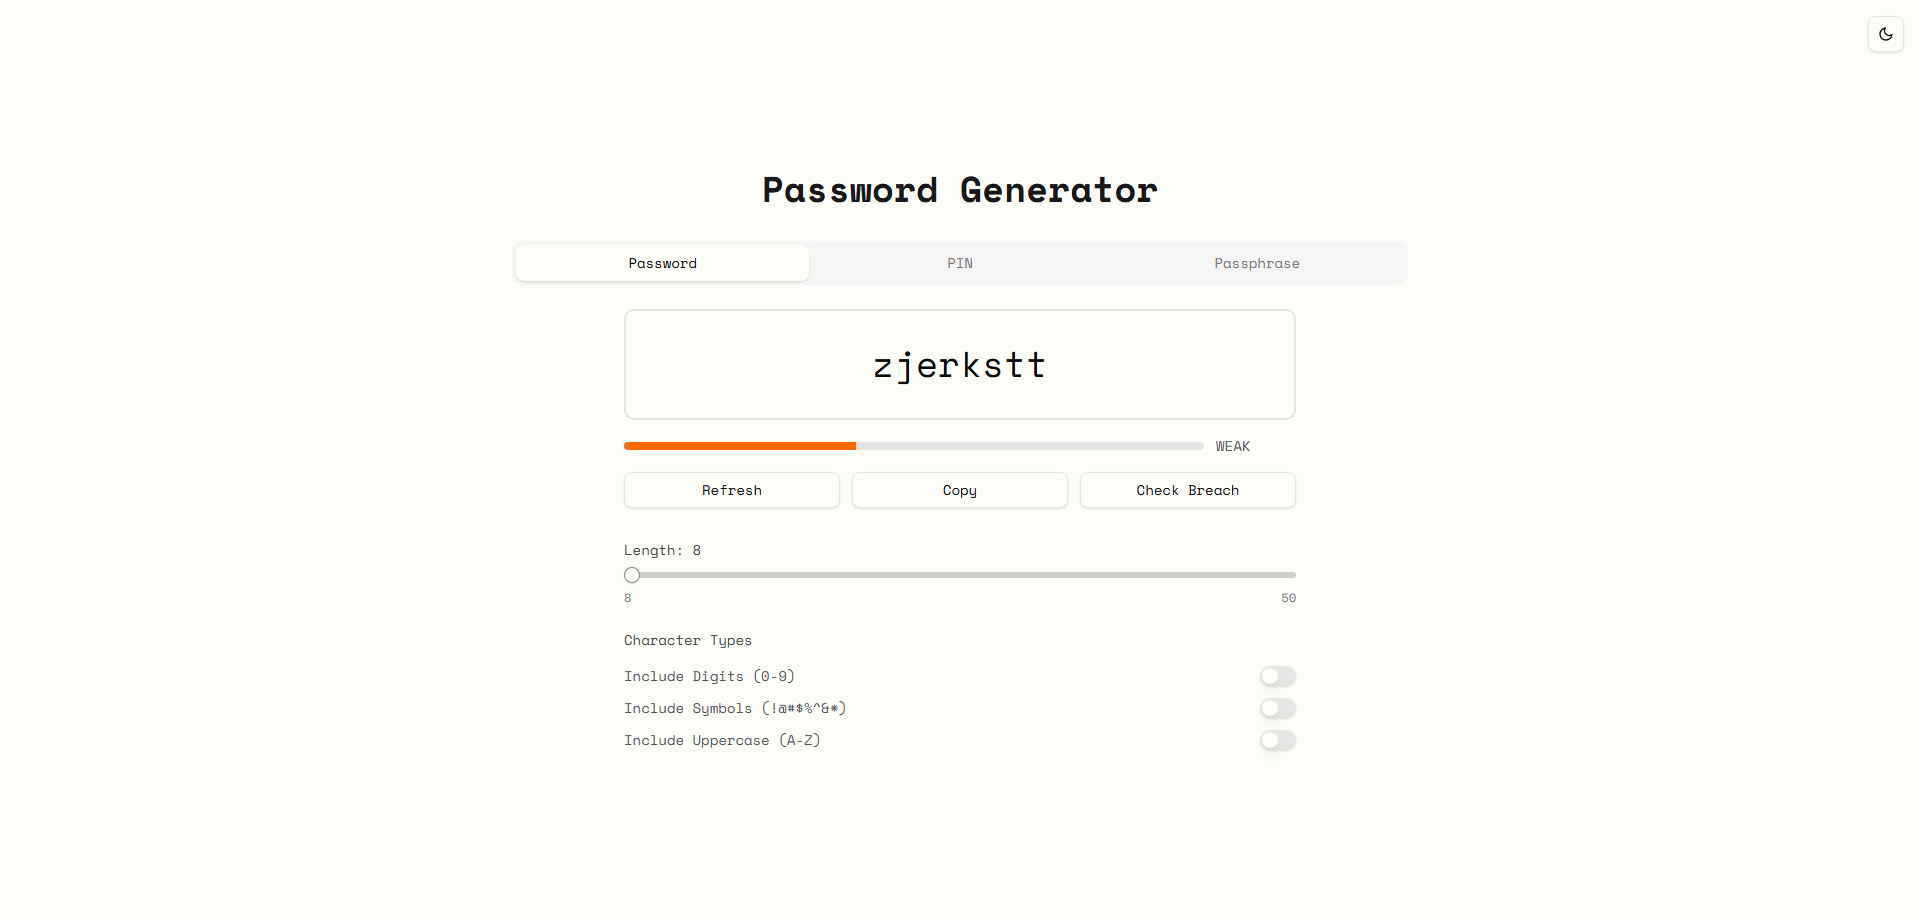
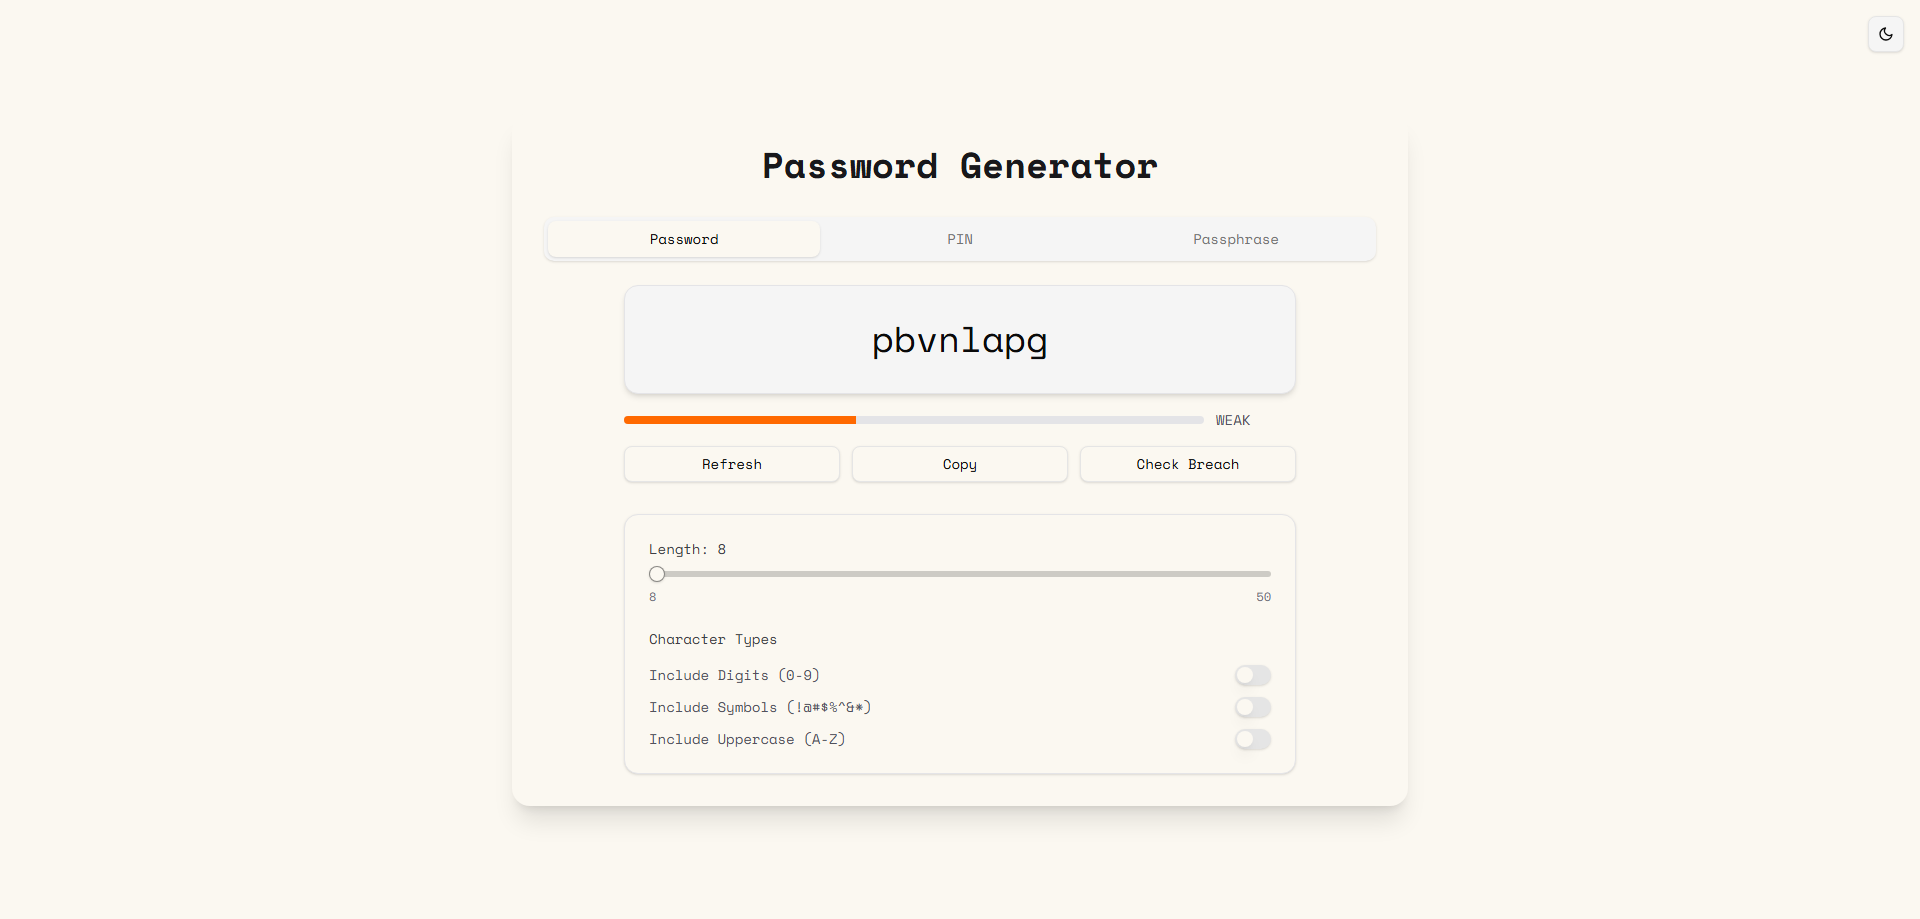
update README, update screenshots

diff --git a/README.md b/README.md
@@ -32,8 +32,9 @@ A secure, modern password generator built with Next.js 16, featuring password, P
 - **User Experience**
   - Light/dark mode toggle with persisted preference
   - Responsive design (desktop, tablet, mobile)
-  - Toast notifications for user actions
+  - Toast notifications centered at top for better visibility
   - One-click copy to clipboard
+  - Consistent muted background theme across all components
 
 ## Screenshots
 
@@ -65,7 +66,7 @@ A secure, modern password generator built with Next.js 16, featuring password, P
 | Language | [TypeScript 5](https://www.typescriptlang.org/) (strict mode) |
 | Security | [Web Crypto API](https://developer.mozilla.org/en-US/docs/Web/API/Web_Crypto_API) |
 | Testing | [Vitest 4](https://vitest.dev/), [Playwright](https://playwright.dev/) |
-| Notifications | [Sonner](https://sonner.emilkowal.ski/) |
+| Notifications | [Sonner](https://sonner.emilkowal.ski/) via [Shadcn UI](https://ui.shadcn.com/) |
 
 ## Getting Started
 
@@ -122,23 +123,25 @@ A secure, modern password generator built with Next.js 16, featuring password, P
 
 ```
 ├── app/                          # Next.js App Router
-│   ├── api/                      # API routes (breach-check)
-│   ├── components/               # React components
-│   │   ├── password-generator/   # Domain components
-│   │   └── ui/                   # Shadcn UI components
-│   ├── hooks/                    # Custom React hooks
-│   ├── lib/                      # Utility functions and core logic
-│   ├── types/                    # TypeScript definitions
-│   ├── layout.tsx                # Root layout
-│   └── page.tsx                  # Home page
+│   ├── api/                     # API routes
+│   │   └── breach-check/        # Breach check API
+│   ├── components/              # React components
+│   │   ├── password-generator/  # Domain components
+│   │   └── ui/                 # Shadcn UI components
+│   ├── hooks/                   # Custom React hooks
+│   ├── lib/                    # Utility functions and core logic
+│   ├── types/                  # TypeScript definitions
+│   ├── layout.tsx               # Root layout
+│   └── page.tsx                 # Home page
 ├── components/                   # Shared UI components (Shadcn)
-├── lib/                          # Shared utilities (cn function)
+├── lib/                         # Shared utilities (cn function)
 ├── tests/
-│   ├── __mocks__/                # Test mocks
-│   ├── unit/                     # Vitest unit tests
-│   └── e2e/                      # Playwright E2E tests
-├── specs/                        # Feature specifications
-└── screenshots/                  # Application screenshots
+│   ├── setup.ts                # Test setup and mocks
+│   ├── test-helpers.ts         # Test utilities
+│   ├── unit/                   # Vitest unit tests
+│   └── e2e/                    # Playwright E2E tests
+├── specs/                       # Feature specifications
+└── screenshots/                 # Application screenshots
 ```
 
 ## Available Scripts
